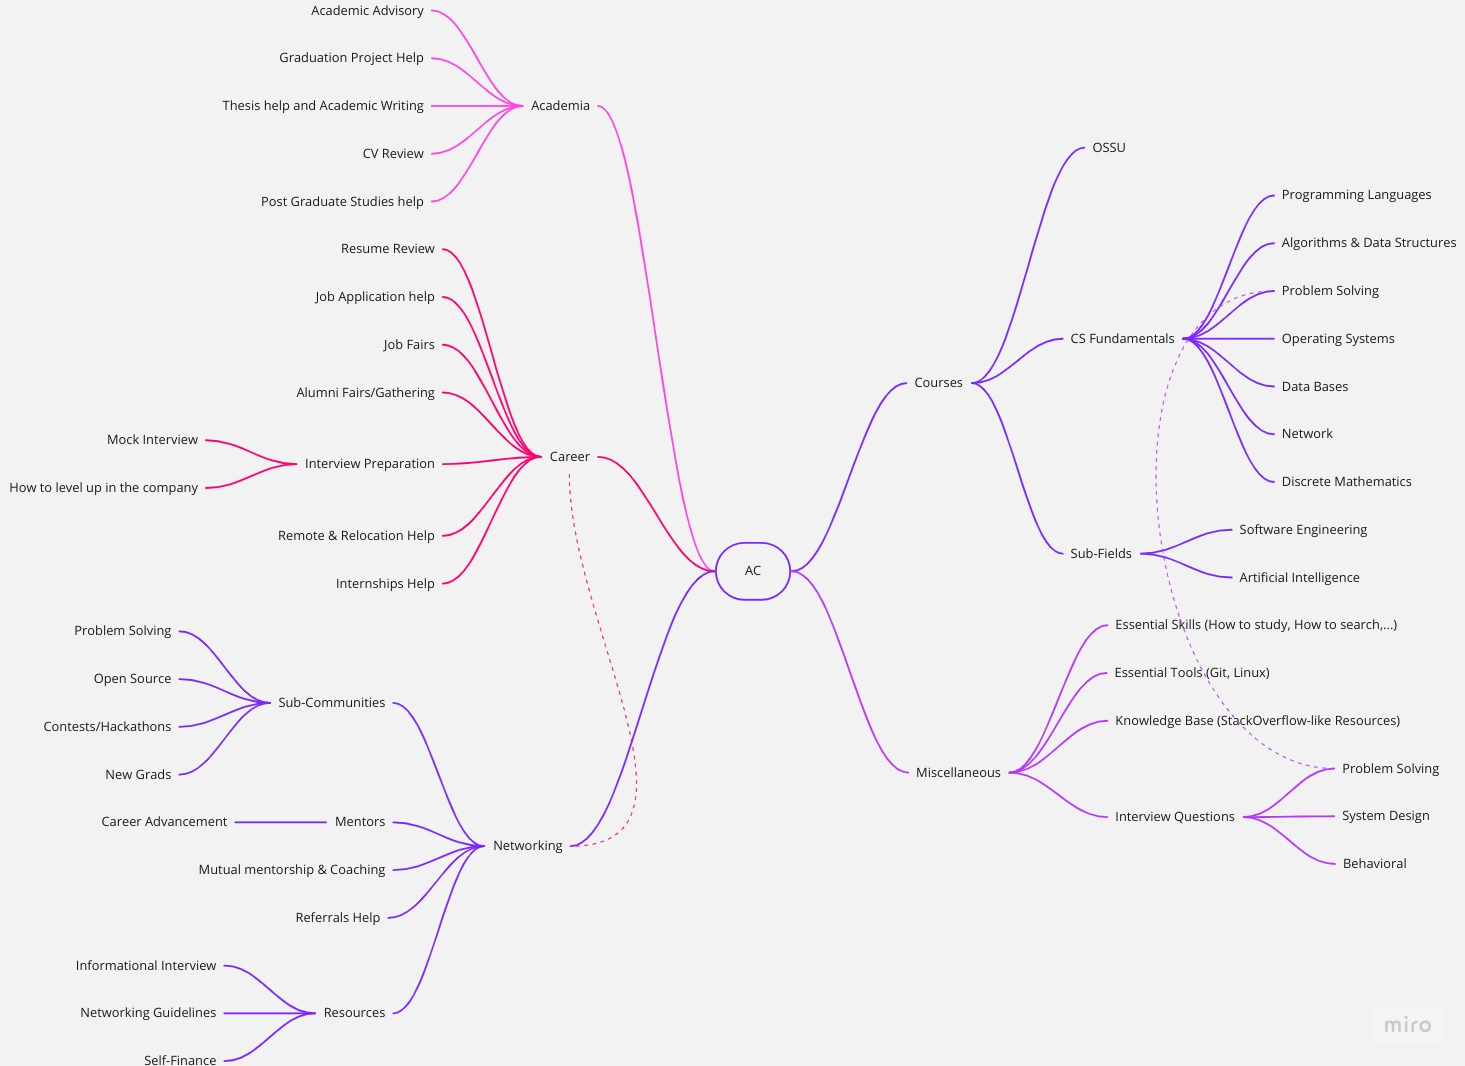
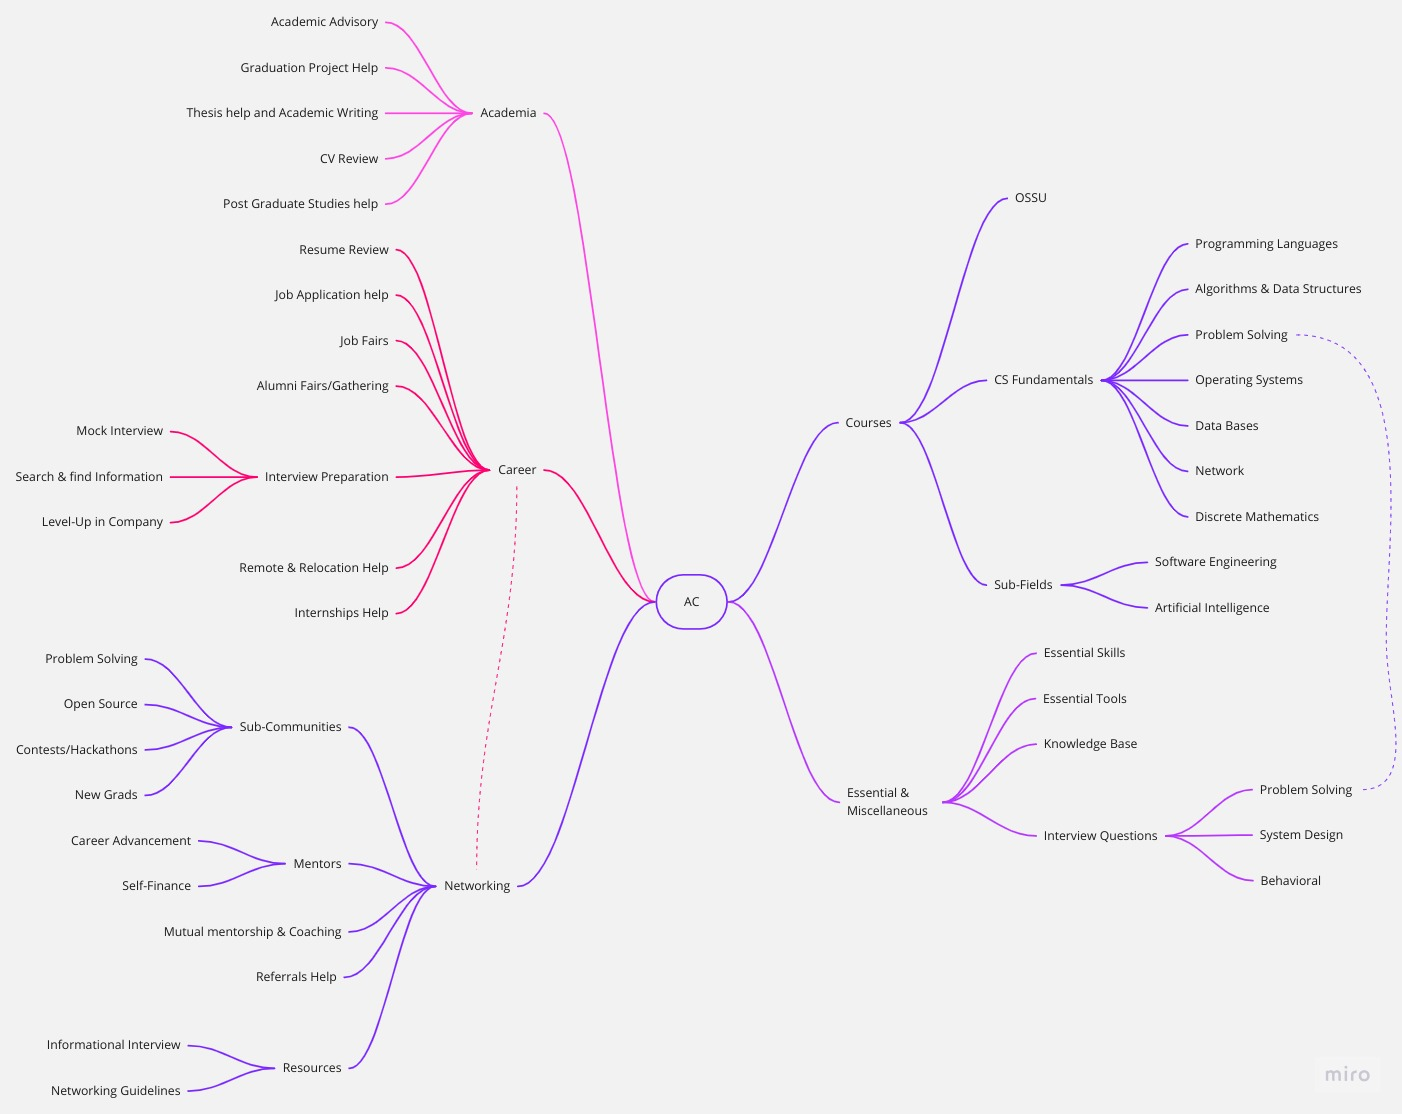
Features: Added bare minimum for Resources & ACU Mind Map Explanation

diff --git a/README.md b/README.md
@@ -8,11 +8,15 @@ An Open University providing MOOCs, Career Services, Academic Advisory, and Netw
 
 ![MindMap](images/ACU_Services.jpg)
 
+For a full explanation, check [ACU Mind Map Explanation](./ACU-Mind-Map-Explanation.md).
+
 ## Contents
 
 1. [Summary](#summary)
 2. [Resources](#resources)
    1. [Courses](#courses)
+      1. [CS-Fundamentals](#cs-fundamentals)
+      2. [Sub-Fields](#sub-fields)
    2. [Miscellaneous](#miscellaneous)
 3. [Community](#community)
    1. [General Info](#general-info)
@@ -57,7 +61,18 @@ Check [Community](#community) to join us.
 
 Mainly [OSSU](https://github.com/ossu/computer-science) and secondarily [Omar Shawky's CS-Roadmap](https://github.com/OmarShawky1/CS-Roadmap) and pinned messages in the Discord server (which will soon be merged and rewritten to accommodate other CS Sub-Fields such as SWE).
 
-To be done...
+#### CS-Fundamentals
+
+| Topic | Course Name |Topics Covered | Course Prerequisites | Course Reviews |
+|:-|:-:|:-:|:-:|:-:|
+| Introduction to Programming | [How to Code - Simple Data](https://www.edx.org/course/how-to-code-simple-data) & [How to Code - Complex Data](https://www.edx.org/course/how-to-code-complex-data)|<details><summary>`programming concepts`, `basic function structure`, `functional programming`, `dynamic typing`</summary><br>`programming concepts`: (`lexical scoping`), <br>`basic function structure`: (Function signature, First Order Function) <br>`functional programming`: (Recursion, Mutual Recursion, Tail Recursion, High Order Function: {Function Consumer or passing function as argument}, `map`, `filter`, `fold`, Backtracking Search, Generative Recursion), <br>`dynamic typing`</details>| N/A | #TODO |
+| $\uparrow$ | [Computer Science: Programming with a Purpose](https://www.coursera.org/learn/cs-programming-java) | <details><summary>`programming concepts`, `basic syntax`, `basic data structures`, `Functional Programming`, `OOP`</summary><br>`programming concepts`: (Abstraction, Decomposition, Standard Input & Output, Type Conversion, Type Checking, Functions, API, Modular Programming, Recursion, `dynamic programming`, `divide and conquer`, Memoization, Algorithmic Complexity, Abstract Datatypes, Compiler, Interpreter, Procedural Paradigm, Scripting Language, Special-Purpose Language), <br>`basic syntax`: (Variables, Variables Types, Arithmetic Operations, `if`, loops {`while`, `for`}, Nesting, Access Modifiers, Non-Access Modifiers, Static Methods), <br>`basic data structures`: (Primiteves, `string`, Arrays, kD Arrays), <br>`Functional Programming`, <br>`OOP`: (Methods, `inheritance`, Encapsulation)</details>|  N/A | #TODO |
+| Programming Languages | [Programming Languages, Part A](https://www.coursera.org/learn/programming-languages), [Programming Languages, Part B](https://www.coursera.org/learn/programming-languages-part-b) & [Programming Languages, Part C](https://www.coursera.org/learn/programming-languages-part-c) which covers all topics in "Concepts of Programming Languages by Robert W. Sebesta 12th Edition" & "Programming Language Pragmatics by Michael Scott 4th edition"|<details><summary>`programming concepts`, `functional programming`, `static typing`, `dynamic typing`, `ML-family languages (via Standard ML)`, `Lisp-family languages (via Racket)`, `OOP`, `Ruby`, `libraries`, `tools`</summary><br>`programming concepts`: (Mutation, References/Pointers, : {Pairs, Tuples, Records}, Polymorphism (Functional, OOP, Bounded), Datatype Binding, Type Inference (Implicit Typing, Explicit Typing), Weak Typing, Strong Typing, Duck Typing, Method Overriding, Dynamic Dispatch, Double Dispatch, Interpreter), <br>`programming paradigms`: (`functional programming`, `OOP`), <br>`functional programming`: (Recursion, Mutual Recursion, Tail Recursion, Shadowing, Case Expression (AKA Pattern Matching), High Order Function, `map`, `filter`, `fold`, `lexical scope`, `dynamic scope`, Stream, Lazy Evaluation, Eager Evaluation, Memoization, Tokenization, Subtyping {Functional Sutyping, OOP Sutyping}, Generics), <br>`ML-family languages (via Standard ML)`, `Lisp-family languages (via Racket)`, `OOP`, <br>`Ruby`: (Classes, Object State, Arrays, Blocks, Hashes & Ranges, Subclassing: {Inheritance in java}, Mixins), <br>`universal libraries`: (File Stream, I/O Stream, Math), <br>`tools`: (Read Evaluate Print Loop (REPL), Debugger)</details>| How to Code (Check OSSU for details) | #TODO |
+| Introduction to Programming + Programming Languages + OOP + Problem-Solving | [Mastering 4 Critical Skills using C++ 17 by Prof. Mostafa Saad](https://www.udemy.com/course/cpp-4skills/)| <details><summary>`programming concepts`, `C++ concepts`, `basic syntax`, `basic data structures`, `data structures`, `OOP`, `functional programming`, `algorithm complexity notions`, `algorithms`, `universal libraries`, `basic OS`, `basic computer architecture`, `UML`, `SE practices`, `software engineering`, `advanced syntax`, `advanced c++`</summary><br>`programming concepts`: (Type Conversion, Polymorphism: {Upcasting, Downcasting}, Exception Handling: {`except`, `throw`, `noexcept`, `nothrow`}, Compiler, Linker, Procedural Paradigm), <br>`C++ concepts`: (Standard Input & Output, References/Pointers, STL, Headers & `includes`), <br>`basic syntax`: (Variables, Variables Types, Arithmetic Operations, `if`, Loops {`while`, `for`}, Nesting, Access Modifiers, Non-Access Modifiers: {`static`, `const`, `final`}, Functions & Methods), <br>`basic data structures`: (Primitives, `string`, Arrays {1D, 2D, kD}), <br>`data structures`: (Encapsulation Techniques: {Struct, Pairs, Tuples}, STL: {Templates, `queue`, Priority Queues, Deque, Stack, Iterators, References, Pointers}, Vectors: {1D, 2D, kD}, Sets, Multisets, `map`),<br>`functional programming`: (Recursion), <br>`OOP`: (concepts: {Encapsulation, Abstraction, Data-Hiding, Decomposition, SOLID Principles, `inheritance`: {Abstract Class, Interface, Method Overriding, Method Overloading, Operator Overloading: {Unary, Subscript, Relational, Prefix, Postfix, Input, Output, Conversion, Assignment}}}, Class: {Constructor, Destructor, Copy Constructor, Delete Function, Initializer List}, Specifiers: {`final`, `static`, `friend`}), <br>`algorithm complexity notions`: (Problem Reduction), <br>`algorithms`: (`sorting`: {Count Sorting}), <br>`universal libraries`: (File Streams, I/O Stream), <br>`basic OS`: (Memory Stucture: {Stack, Heap}, Static Variables...), <br>`basic computer architecture`: (bits & bytes, 2's Compliment, Signed & Unsigned Numbers, Floating Points & Rounding Numbers, Numbers Conversion/Casting), <br>`UML`: (Class Diagram: {Association, Aggregation, Composition, Generalization, Multiplicity}), <br>`SE practices`: (MVP, CRUD Operations, MVC, Refactoring), <br>`software engineering`: (Coupling, Cohesion), <br>`advanced syntax`: (`variadic`, Fold Expressions, functors (High Order Function), Lambda Expressions), <br>`advanced c++`: (Move Semantics & Perfect Forwarding, Smart Pointers: {Unique Pointers, Shared Pointers, Weak Pointers}, Pointer to Pointer, Void Pointer, Function Pointer)| N/A | Premium and Udemy courses do not provide autograder, but you will directly interact with Prof himself in his Discord Channels. |
+| DSA | [Princeton Algorithms Course Part 1](https://www.coursera.org/learn/algorithms-part1) & [Princeton Algorithms Course Part 2](https://www.coursera.org/learn/algorithms-part2) |<details><summary>`sorting and searching`, `shortest paths`, `randomized algorithms`, `data compression`, `data structures`, `algorithm complexity notions`</summary><br>`sorting and searching`: <ul>Elementary sort: (Shell sort, Insertion sort, Selection sort)</ul> <ul>Mergesort</ul> <ul>Quicksort</ul> <ul>Binary Search</ul> <ul>Quick-Select</ul> <ul>3-Way partitioning</ul> <ul>Heapsort</ul> <ul>A\* Search</ul> <ul>Multi-Dimensional Search: (KdTree, Sweep Line Algorithm)</ul> <ul>Hash-Tables*</ul> <ul>Graph-Searching: (Depth-First Search, Breadth-First Search, Topological sort, Kosaraju-Sharir DFS Twice, Cycle Detection) <br>* Maxflow-Mincut-problem: (Ford-Fulkerson Algorithm)</ul> <ul>String Sorting: (Key-Indexed Sort, LSD Radix Sort, MSD Radix Sort, 3-way Radix Quicksort, Manber-Myers MSD Sort, Suffix Sort, (and tries DS below))</ul> <ul>String Searching: (Knuth-Morris-Pratt, Boyer-Moore Rabin-Karp)</ul> <ul>Substring Searching (AKA Pattern Matching, Regular Expression matching): (Prefix Matching, Suffix Matching, Longest Prefix, Palindrome and many more)</ul> `shortest paths`: <ul>Greedy Algorithms: (Kruskal's Algorithm, Prim's Algorithm, Dijkstra's Algorithm), Acyclic SP: (Seam-Carving)</ul> <ul>`dynamic programming` Algorithms: (Bellman-Ford's Algorithm, Dijkstra's Algorithm\*)</ul>`randomized algorithms`: (Shuffle sort), <br>`data compression`: (Run-length Encoding, Huffman Compression, LZW Compression, Burrows-Wheeler Algorithm, Shannon-Fano Algorithm) <br>`data structures`: <ul>Linear: (Array, ArrayList, LinkedList, Stack, Queue, Priority Queues, Deque)</ul> <ul>Symbol-Table: (Suffix Array, Trees*, Tries*, Hash-Tables*, Graphs*, Sets*)</ul> <ul>Trees: (Binary Search Trees, Binary Heap, 2-3 Trees, Red-Black Trees, B-Trees)</ul> <ul>Multi-Dimensional Trees: (Space-Partitioning Trees, Interval Search Tree)</ul> <ul>Hash-Tables: (Seperate Chaining: {Two-probe hashing}, Linear Probing: {Double Hashing, Cuckoo Hashing})</ul> <ul>Sets</ul> <ul>Graphs: (Directed Graphs, Undirected Graphs, Edge Weighted Graphs, Acyclic Graphs, Edge Weighted Directed Acyclic Graphs)</ul> <ul>Minimum Spanning Trees (MST)</ul> <ul>Flow-Network or Residual Network</ul> <ul>Tries: (R-way Tries, Ternary Search Tries, TST & R<sup>2</sup> Hybrid Tries, Patricia Trie, Suffix Tree)</ul> <ul>Miscellaneous: (DFA (Deterministic Finite State Automaton)), NFA (Nondeterminstic Finite State Automaton)</ul> `algorithm complexity notions`: (Problem Reduction, Linear programming, simplex algorithm, P, NP, CoNP, NP-Hard, Intractable)</details>| Programming Languages | #TODO |
+
+#### Sub-Fields
+
 
 ### Miscellaneous
 
@@ -65,7 +80,7 @@ To be done...
 
 ## Community
 
-* Watch Onboarding video: (#TODO)
+* Watch the [On-boarding video](https://youtu.be/z5NsFT7QMJ4).
 * Join [![Discord](https://img.shields.io/discord/950993900720492574?logo=discord&logoColor=ffffff&label=%20&labelColor=6A7EC2&color=7389D8)](https://discord.gg/QrfTN2Aukx)
 
 ### General Info
@@ -107,6 +122,17 @@ To be done...
 #### FAQ
 
 To be done...
+
+1. How to ask questions?
+   1. Dr. Mostafa's advice on how to ask (Arabic): https://www.youtube.com/watch?v=PxLOqb54omI
+   2. Watch: https://www.coursera.org/lecture/data-scientists-tools/getting-help-dhpW3
+   3. Read:  https://stackoverflow.com/help/how-to-ask
+   4. Read: https://www.freecodecamp.org/news/how-to-ask-good-technical-questions/
+   5. Read about XY Problem: https://mywiki.wooledge.org/XyProblem
+   6. Ask a binary question if possible. (I.e., True/false)
+   7. If not, Ask enclosed question if possible. (I.e., question that has expected answer; E.g., Which color? "Red", "Green", "Blue")
+   8. If not, ask open questions and supply atomic information in an enumerated form. (E.g., "How to study Algorithms?" 1. I know math. 2. I know Programming Languages.)
+   9. Note: Atomic information is the simplest form of information possible that can not be further broken down into even simpler data and can never hold more than a single meaning.
 
 ### Academia
 

diff --git a/ACU-Mind-Map-Explanation.md b/ACU-Mind-Map-Explanation.md
@@ -1,0 +1,105 @@
+![MindMap](images/ACU_Services.jpg)
+
+**Note**: This is just a pre-release.
+
+# Contents
+
+- [Resources](#resources)
+  - [Computer Science](#computer-science)
+  - [Essential \& Miscellaneous](#essential--miscellaneous)
+- [Services](#services)
+  - [Academia](#academia)
+  - [Career](#career)
+  - [Networking](#networking)
+
+# Resources
+
+## Computer Science
+
+Briefly, ACU provides currently only two roadmaps for computer science: (Both follows [OSSU](https://github.com/ossu/computer-science) courses guidelines)
+
+1. OSSU.
+2. CS Fundamentals: Essential knowledge for all subfields (career paths). Similar to Gen-Ed.
+   1. Background Info:
+      1. Designed & backed up by:
+         1. Prof. [Mostafa Saad Ibrahim](https://www.linkedin.com/in/mostafasaad/)'s Videos (Arabic): Roadmap [1](https://youtu.be/JkcmNrdhjMs) & [2](https://youtu.be/b56XFMNEzAs), [Why to follow roadmap](https://youtu.be/-oORn0GOWe4).
+         2. SRE [Mohamed Moshrif](https://www.linkedin.com/in/mmeshref/)'s Video (Arabic):[Roadmap](https://youtu.be/RAHNZhcoi_Q) & [Old Roadmap](https://youtu.be/jZIXKlSJcrc) & [Very old Roadmap](https://www.facebook.com/watch/?ref=search&v=2050195395035796&external_log_id=c27c284f-d228-4e39-9c4d-1447de1697be&q=mohamed%20moshrif), [Why to follow roadmap](https://youtu.be/aKv3QNiB1NU), Miscellaneous Info [1](https://www.facebook.com/mmoshrif/videos/344220917562967/?__tn__=%2CO-R) & [2](https://www.facebook.com/watch/live/?ref=watch_permalink&v=2172114902843844).
+         3. [Teach Yourself CS](https://teachyourselfcs.com/).
+         4. Note: They say same thing. They are not alternatives.
+      2. Community provides courses, materials & tutoring for the roadmap in real-time in addition to group studying.
+   2. Courses:
+      1. Programming Languages (PL).
+      2. Data Structures and Algorithms (DSA).
+      3. Problem-Solving (PS).
+      4. Operating Systems (OS).
+      5. Data Bases (DB).
+      6. Networks.
+      7. Discrete Mathematics.
+   3. Subfields: Different career paths; You must pick only one.
+         1. Software Engineering.
+         2. Artificial Intelligence (Machine Learning Engineer, Deep Vision...).
+
+## Essential & Miscellaneous
+
+They are courses and materials for everyone (from one, who is about to start his education journey, to a senior software engineer). Learning "How to ask?", "How to search?", "How to study?" and essential tools will boost your productivity 10-50x!
+
+They are devised of 4 categories:
+
+1. Essential skills: (How to ask?), (How to search?), (How to study?), (How to pick your road map?).
+2. Essential tools: Git & GitHub, Linux, IDEs... .
+3. Knowledge Base: Stackoverflow-like but for incurated resources (resources collection under review that will be added later to respective section).
+4. Job process:
+   1. Resume.
+   2. Job application.
+   3. Interview Questions: Problem-Solving, System Design, Behavioral... .
+
+# Services
+
+* They are interactive 1-1 help not some hanging resources on the internet.
+* People here are accountable for each & every word they provide. They do not mislead, misinform or be stubborn about with their thoughts. If one is not reliable to give an opinion, he will recite you from a reliable source and back his words with the source itself.
+
+## Academia
+
+Academia is equivalent to Academic Advisory in universities where a person (usually, Maters or PhD holder/student) offering help in the academic career path from educational field, CV, Thesis to Post grad. Briefly, anything in the below services:
+
+1. Academic Advisory. (Currently limited to a single person)
+2. Graduation Project Help: Project Proposal (What good/solid project that will support you when you graduate as a Software Engineer or a Machine Learning Engineer), projects to pick, project overview and guidelines, best practices and quite more.
+3. Academic Writing: Thesis help, Research Publishing help, Learning $\LaTeX$, Word.
+4. CV Review. (Can get help from other members other than Academic advisory)
+5. Post graduation help: Choosing academic path, Finding professor, pairing with professor, finding opportunities.
+
+## Career
+
+Equivalent to Career Services in universities, it provides Alumnus, Seniors and Undergrads career related help such as:
+
+1. Resume: Review, Feedback & Tips.
+2. Job: Tailored help in (picking your companies option (E.g., Big N), Job Application, Networking, Interview Practice & help, Offer Negotiation).
+3. Fairs: (Currently unavailable but we provide resources for other entities that provide it)
+   1. Job Fairs.
+   2. Alumnus Fairs/Gathering: Introduces new to old Alumnus to find /help (mentorship, coaching).
+      1. It is one of the ultimate networking techniques in different industrial or academic disciplines and levels. New Alumnus, in IVY-League Universities, have the opportunity to meet with entrepreneurs, seniors, startup or business owners; Imagine having the opportunity to meet with Jeff Bezos in his early stages.
+4. Interview Preparation.
+   1. Mock Interview: Pair & practice mock interviews (Problem-Solving, System Design, Behavioral) with colleagues & experts.
+   2. Search & find company information.
+   3. Level up in the company. (Currently limited to just resources)
+5. Remote & Relocation help.
+6. Internship help: Finding opportunities, Find out updates if you are ghosted (no one responded back for long time).
+
+## Networking
+
+1. Sub-Communities:
+   1. Problem-Solving.
+   2. Open Source. (Currently not available)
+   3. Contest/Hackathons. (Currently not available)
+   4. New Grads: Prepare, apply & practice for your upcoming job with others targeting same niche companies. People on some websites even break their NDA and disclose the interview questions and much more. (This point solely is the reason for why I created ACU so consider carefully each point)
+      1. You will get resume help & practice interviews from people who applied before you at company *X* that you want.
+      2. You will provide help in resume & interview practice for people wanting to apply to company *Y* you applied for.
+      3. Both of you will try to prepare resume and practice mock interviews for company *Z* that no one applied for it before.
+      4. Build and maintain connections in different companies or even countries.
+      5. Consider a group of just 10 applying to FAANG. On average, you will prepare for interview with 5 people, who got interviewed before you, leveraging your chances!
+2. Mentors: Find help in Career Advancement, Self-Finance and the entire Mind Map above.
+3. Mutual Mentorship & Coaching: Find & provide mentorship from & to peers ($\triangle 0-4$ YoE) in the entire Mind Map.
+4. Referrals Help: Connect with people in the server that can, directly or indirectly, lead you to a referral.
+5. Resources: General resources about how to network.
+   1. Informational Interview.
+   2. Networking Guidelines.
